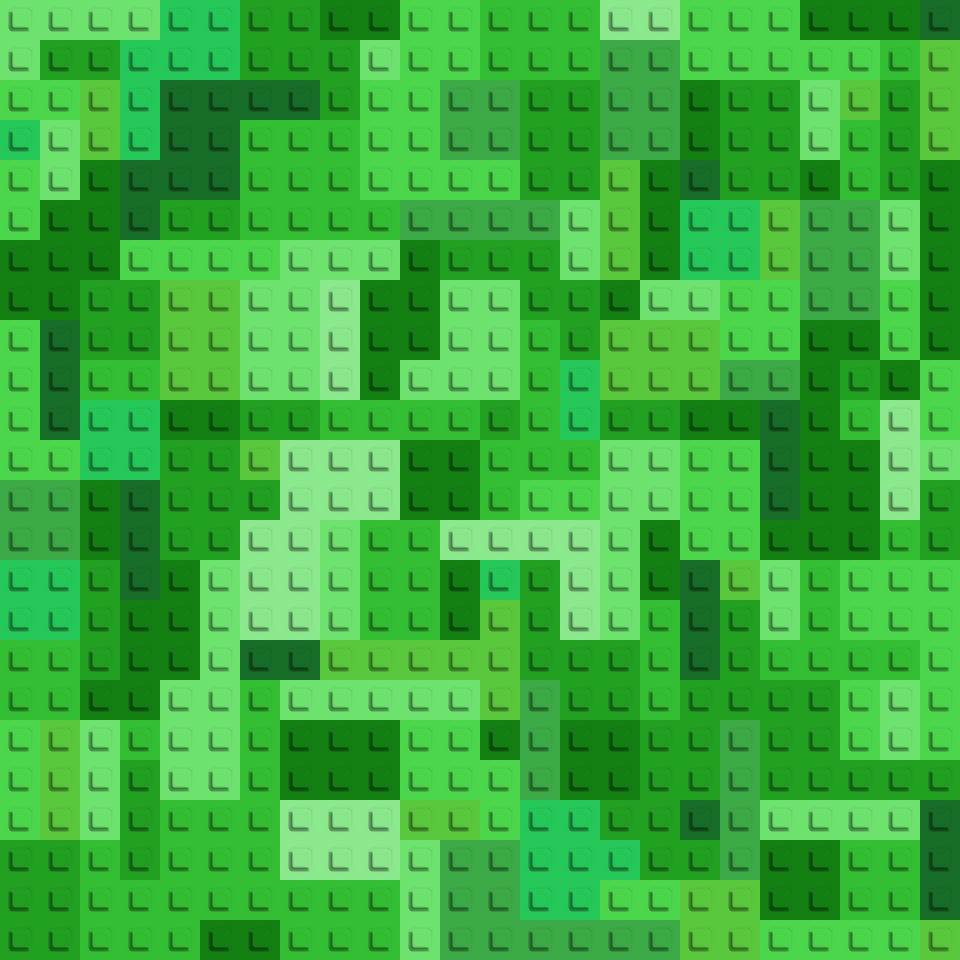
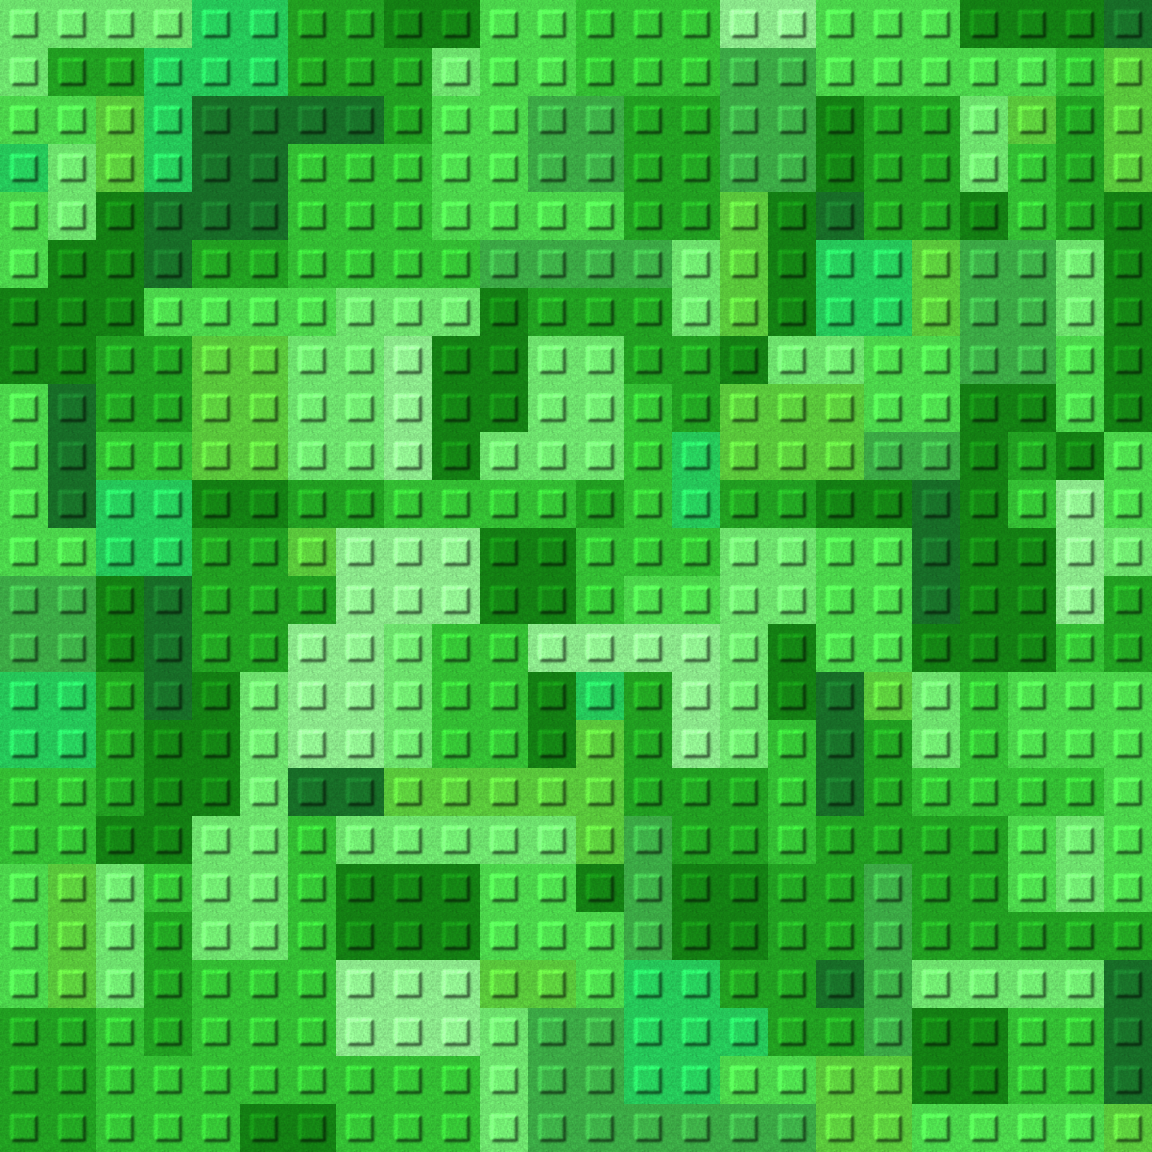
Fond : studs dessinés en relief (lumière, ombre et grain façon Roblox)
Claude-Session: https://claude.ai/code/session_01Y5bpNK3Rj9sQUBARXb72RX

Changed region(s): [[0.0, 0.0, 1.0, 1.0]]

diff --git a/nature.css b/nature.css
@@ -1,6 +1,6 @@
 /* ===== Thème verdure (v2) ===== */
 html,body{overflow-x:hidden}
-body.figma-home,body:not(.figma-home){background:#2e9e3e url("assets/nature-bricks.png?v=3") 0 0/960px 960px repeat fixed}
+body.figma-home,body:not(.figma-home){background:#2e9e3e url("assets/nature-bricks.png?v=4") 0 0/1152px 1152px repeat fixed}
 body.figma-home:before{background:radial-gradient(ellipse at center,transparent 45%,rgba(6,40,14,.35))}
 body:not(.figma-home):before{content:"";position:fixed;inset:0;background:radial-gradient(ellipse at center,transparent 45%,rgba(6,40,14,.35));pointer-events:none;z-index:0}
 

diff --git a/index.html b/index.html
@@ -6,7 +6,7 @@
   <meta name="description" content="IY1U7 — Roblox stud builder portfolio">
   <title>IY1U7 — Roblox Portfolio</title>
   <link rel="stylesheet" href="styles.css?v=20261028-1">
-  <link rel="stylesheet" href="nature.css?v=20261029-1">
+  <link rel="stylesheet" href="nature.css?v=20261029-2">
   <script src="translation.js?v=20261028-1" defer></script>
   <script src="script.js?v=20261028-1" defer></script>
   <script src="nature.js?v=20261028-1" defer></script>

diff --git a/contribution.html b/contribution.html
@@ -9,7 +9,7 @@
   <meta name="description" content="IY1U7 Roblox contributions">
   <title>Contribution — Roblox Portfolio</title>
   <link rel="stylesheet" href="styles.css?v=20261028-1">
-  <link rel="stylesheet" href="nature.css?v=20261029-1">
+  <link rel="stylesheet" href="nature.css?v=20261029-2">
   <script src="translation.js?v=20261028-1" defer></script>
   <script src="script.js?v=20261028-1" defer></script>
   <script src="nature.js?v=20261028-1" defer></script>

diff --git a/build.html b/build.html
@@ -9,7 +9,7 @@
   <meta name="description" content="IY1U7 Roblox builds and assets">
   <title>Build — Roblox Portfolio</title>
   <link rel="stylesheet" href="styles.css?v=20261028-1">
-  <link rel="stylesheet" href="nature.css?v=20261029-1">
+  <link rel="stylesheet" href="nature.css?v=20261029-2">
   <script src="translation.js?v=20261028-1" defer></script>
   <script src="script.js?v=20261028-1" defer></script>
   <script src="nature.js?v=20261028-1" defer></script>

diff --git a/socials.html b/socials.html
@@ -9,7 +9,7 @@
   <meta name="description" content="IY1U7 social links">
   <title>Socials — Roblox Portfolio</title>
   <link rel="stylesheet" href="styles.css?v=20261028-1">
-  <link rel="stylesheet" href="nature.css?v=20261029-1">
+  <link rel="stylesheet" href="nature.css?v=20261029-2">
   <script src="translation.js?v=20261028-1" defer></script>
   <script src="script.js?v=20261028-1" defer></script>
   <script src="nature.js?v=20261028-1" defer></script>
